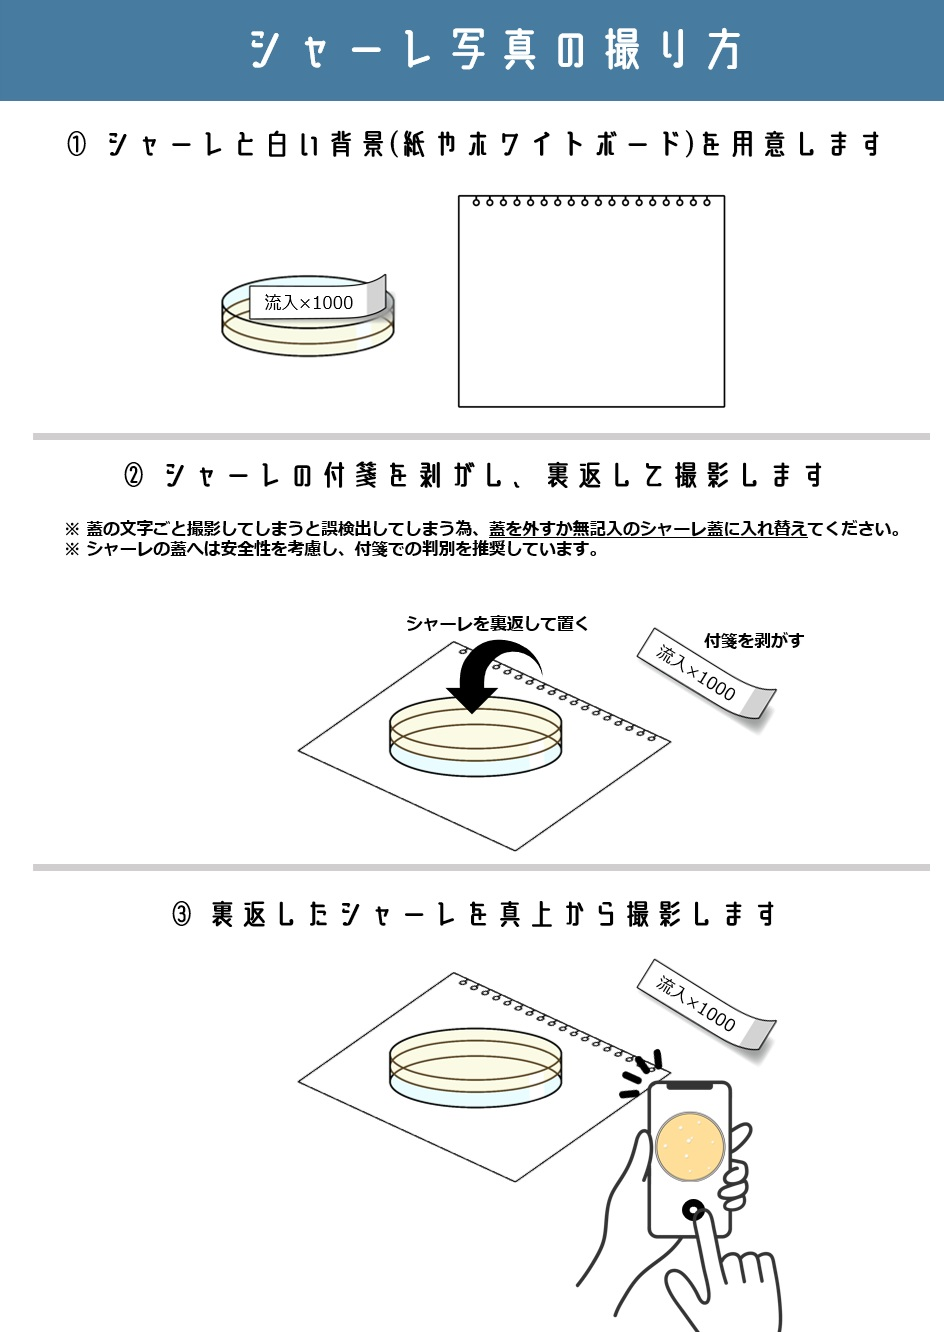
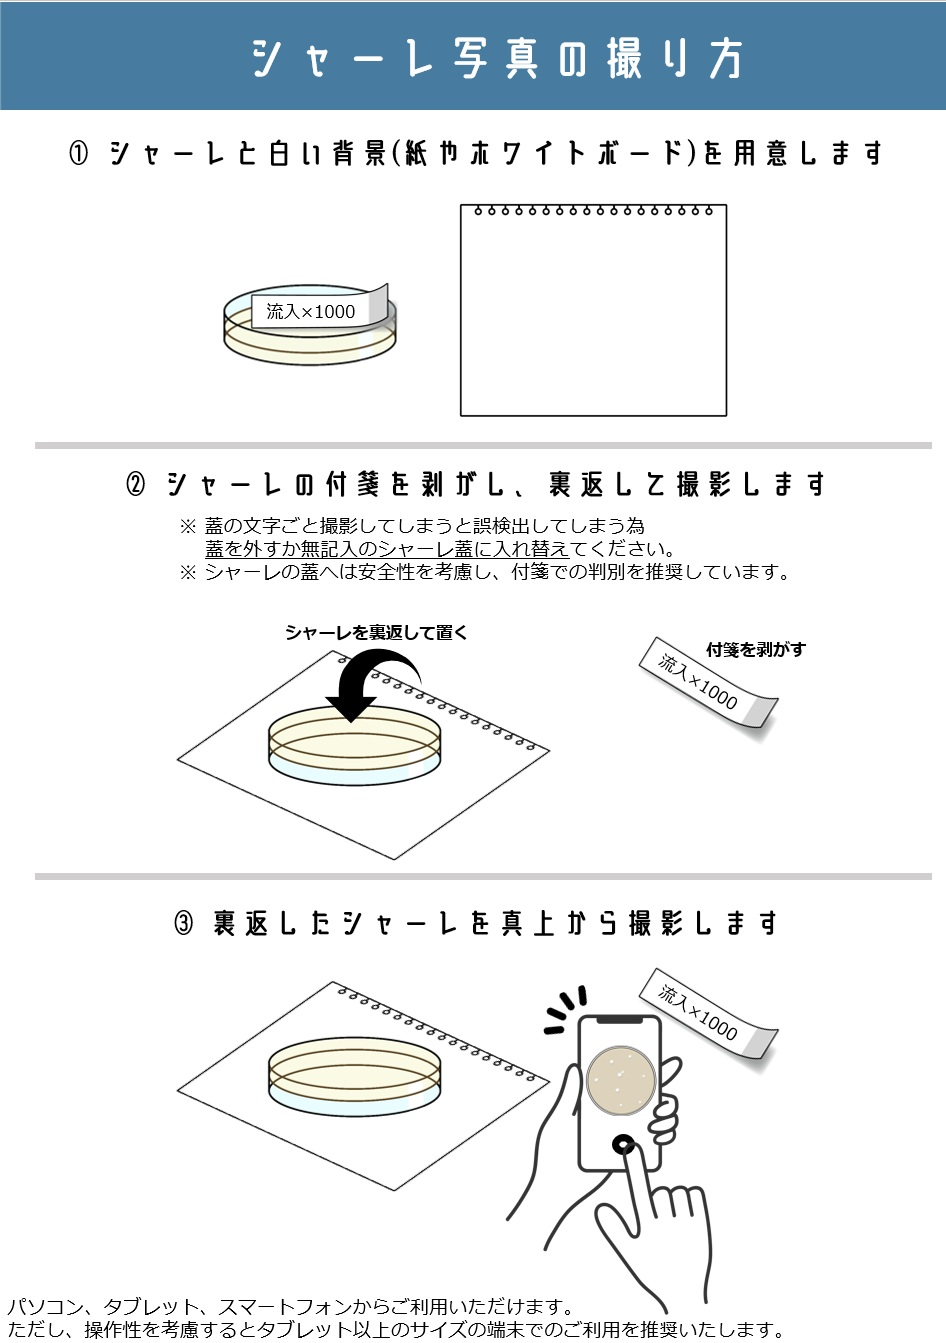
first commit

diff --git a/app.py b/app.py
@@ -98,12 +98,16 @@ def show_home_page():
     script_dir = os.path.dirname(os.path.abspath(__file__))
     logo_image_path = os.path.join(script_dir, "img/logo.png")
     main_image_path = os.path.join(script_dir, "img/main.jpg")
-    
+    sub_image_path = os.path.join(script_dir, "img/sub.jpg")
+
     if os.path.exists(main_image_path):
         logo_image = Image.open(logo_image_path)
         main_image = Image.open(main_image_path)
+        sub_image = Image.open(sub_image_path)
+
         st.image(logo_image, use_container_width=True)
         st.image(main_image, use_container_width=True)
+        st.image(sub_image, use_column_width=True)
     else:
         st.warning(st.secrets["PIC_ERR"])
     
